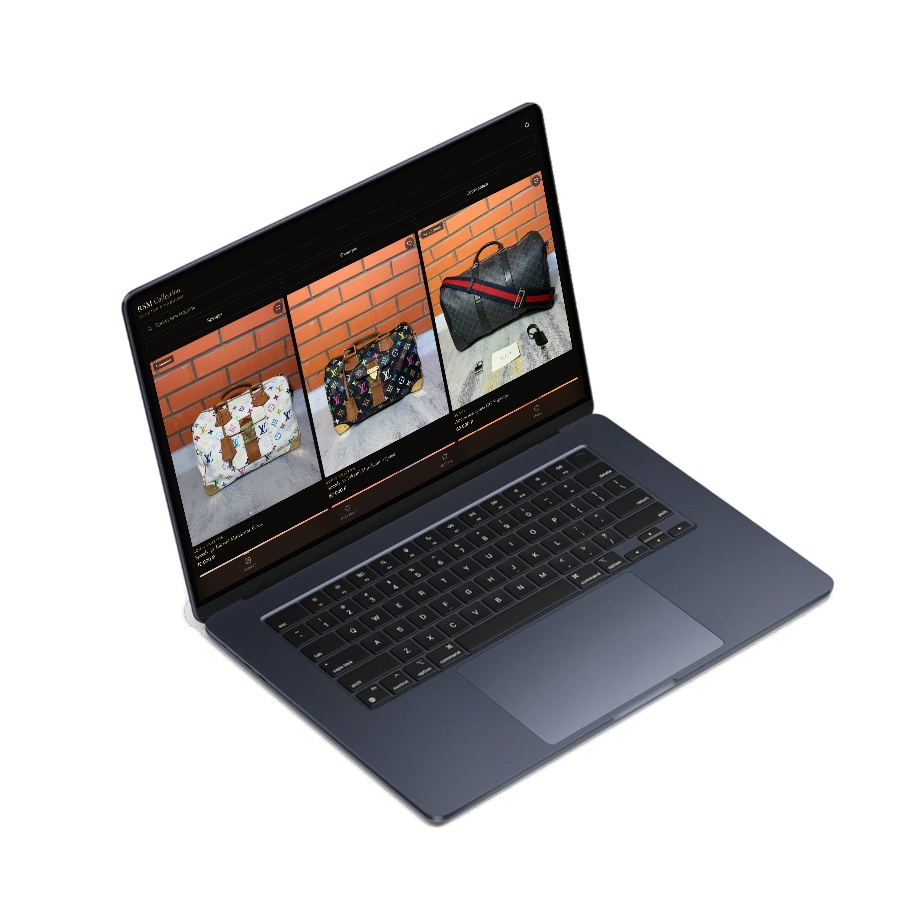
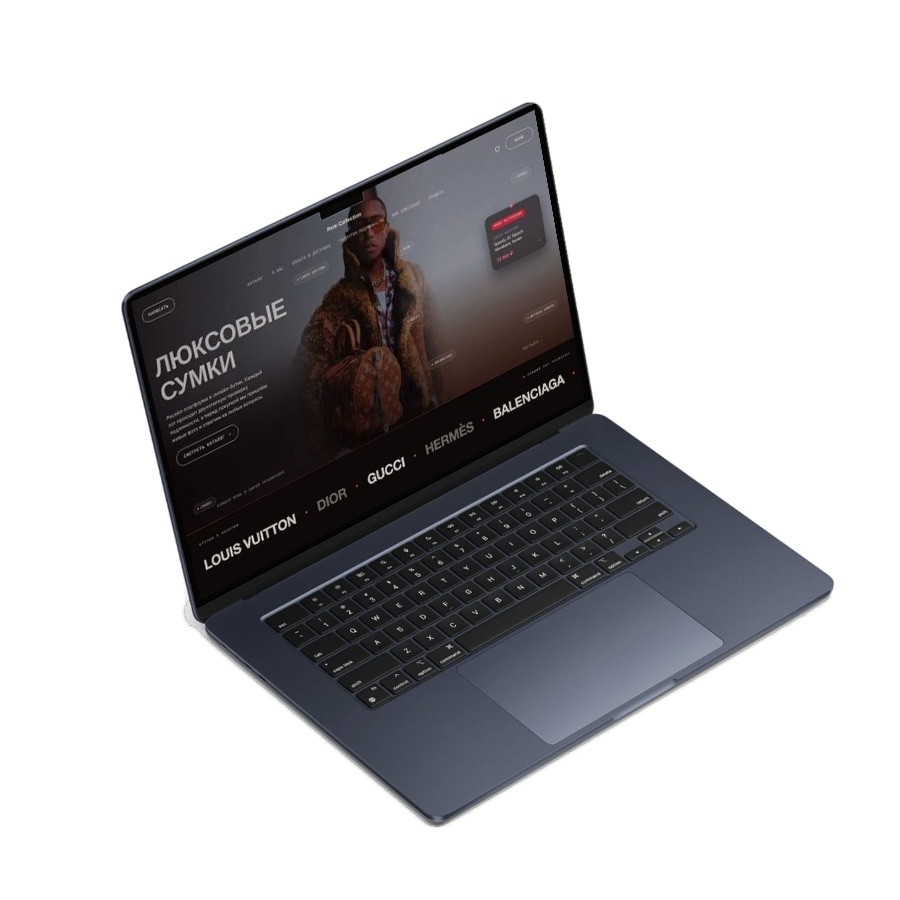
RSM: вернул прежний экран «Люксовые сумки» на ноутбуке в общем стиле

Changed region(s): [[0.1556, 0.1244, 0.6533, 0.6533]]

diff --git a/index.html b/index.html
@@ -982,7 +982,7 @@ const ART = { rsm: 'sphere', royal: 'rings', dash: 'cube' };
 
 const CASES = [
   { id: 'rsm', title: 'Rsm Collection', text: 'Настоящий проект: мой магазин брендовых сумок и мини-приложение для него в Telegram', c: '#e4e1dc',
-    trio: ['img/web/rsm-catalog.jpg', 'img/web/rsm-product.jpg', 'img/web/rsm-sell.jpg'], cardBg: 'img/web/bg/red.jpg', card: 'img/web/cases/card-rsm.jpg?v=1129', href: 'https://t.me/RsmCollectionbot' },
+    trio: ['img/web/rsm-catalog.jpg', 'img/web/rsm-product.jpg', 'img/web/rsm-sell.jpg'], cardBg: 'img/web/bg/red.jpg', card: 'img/web/cases/card-rsm.jpg?v=1130', href: 'https://t.me/RsmCollectionbot' },
   { id: 'rex', title: 'Rex App', text: 'Настоящий проект: моя CRM для перепродажи с ИИ-помощником Rex', c: '#fff',
     card: 'img/web/cases/card-rex.jpg?v=1129', href: 'https://racksup.ru' },
   { id: 'smile', title: 'Like Smile', text: 'Стоматология: сайт с ценами, врачами, калькулятором и онлайн-записью', c: '#fff',
